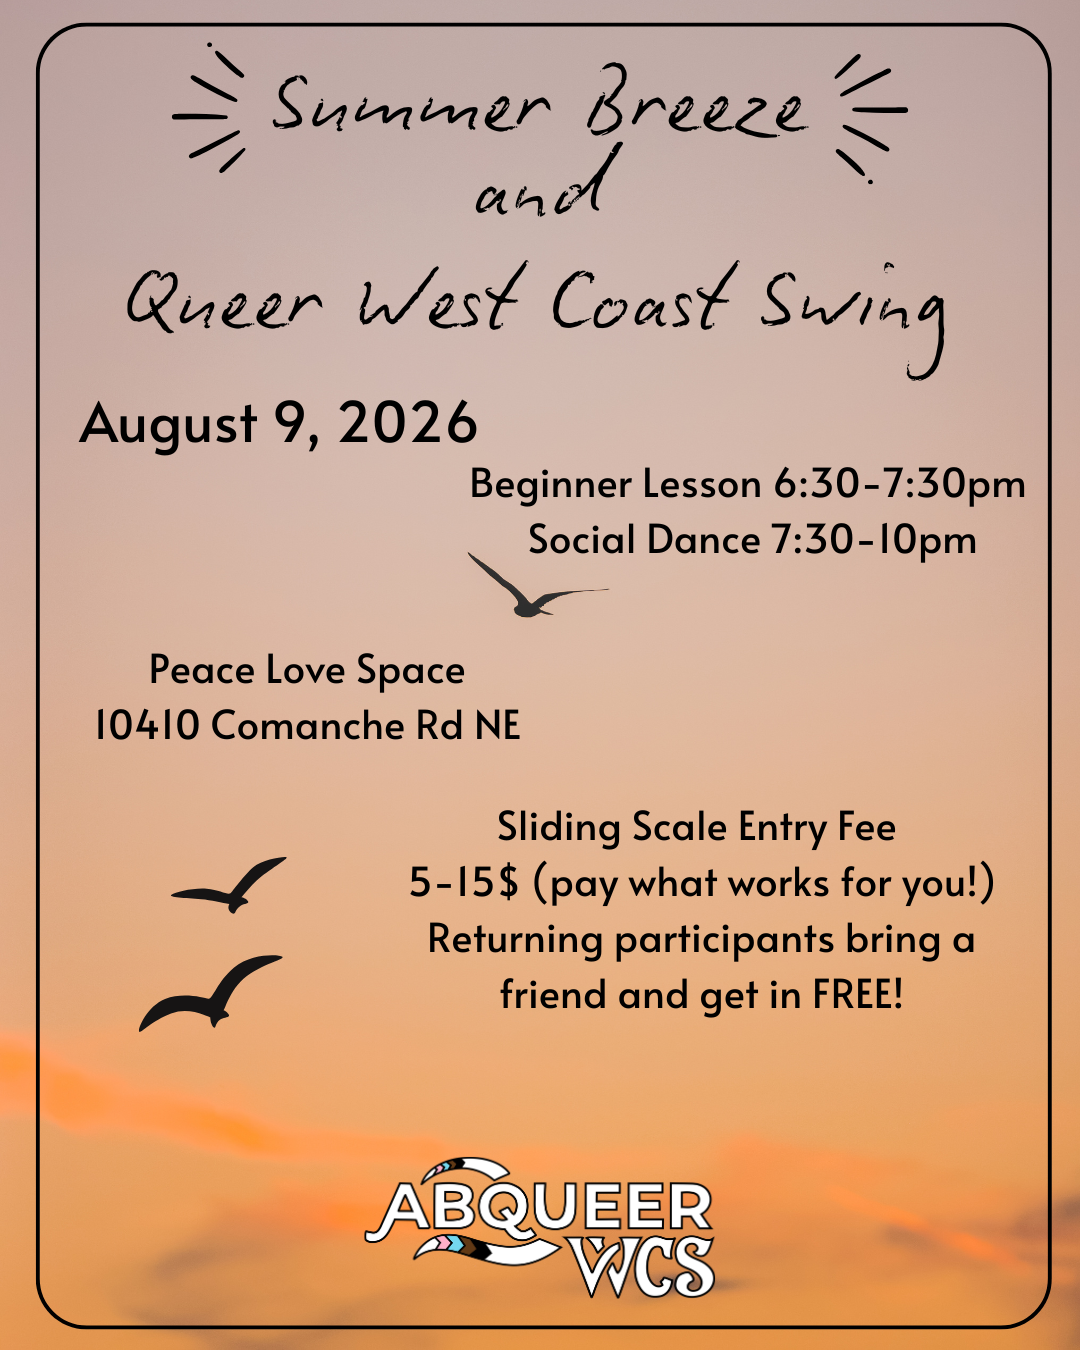
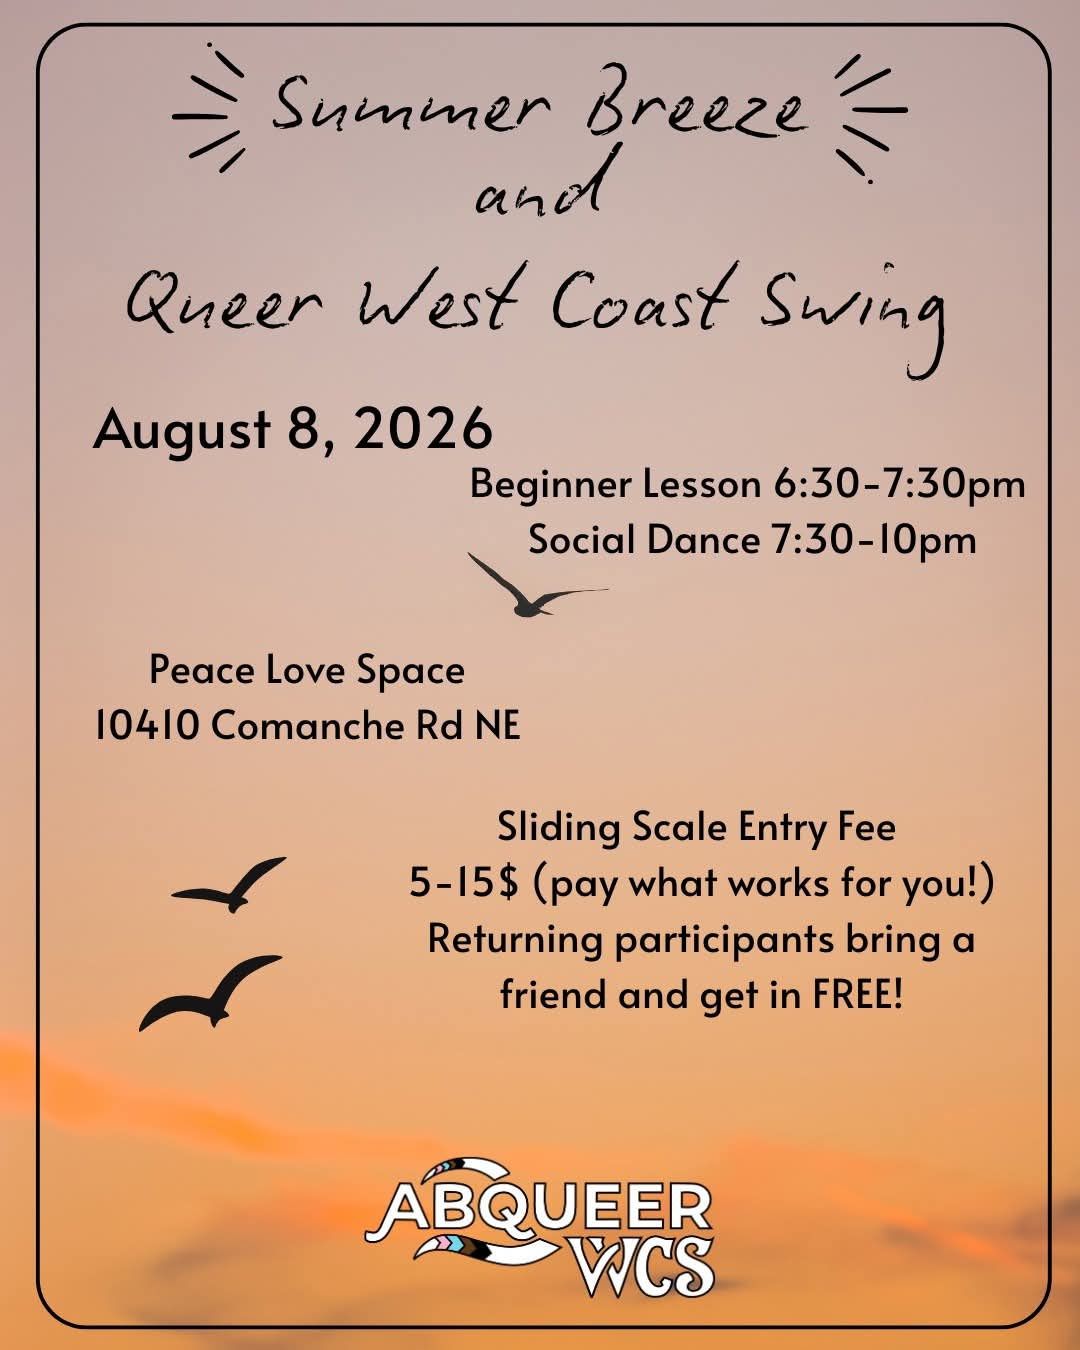
Updated august flyer to correct date

diff --git a/docs/events/index.html b/docs/events/index.html
@@ -59,43 +59,6 @@
 
   
     <img
-      src="/assets/images/events/2026-07-11.png"
-      alt="July Queer WCS Social Dance"
-      class="event-image"
-      data-full="/assets/images/events/2026-07-11.png"
-    >
-  
-
-  <div class="event-info">
-    <h2>July Queer WCS Social Dance</h2>
-
-    <p class="event-date">July 11, 2026</p>
-
-    
-      <p class="event-meta">
-        6:30 PM • Peace Love Space
-      </p>
-    
-
-    
-      <p style="white-space: pre-wrap;">A beginner lesson targeted toward folks with little to no dance experience.</p>
-    
-      <p style="white-space: pre-wrap;">A social dance with music targeted toward folks who completed the beginner lesson. The music will feature queer artists and/or queer themes.</p>
-    
-      <p style="white-space: pre-wrap;">The theme is <b>Drag</b>!</p>
-    
-  </div>
-
-  
-
-</div>
-
-    
-      
-<div class="card event-card  has-image">
-
-  
-    <img
       src="/assets/images/events/2026-08-08.png"
       alt="August Queer WCS Social Dance"
       class="event-image"

diff --git a/docs/events/past/index.html b/docs/events/past/index.html
@@ -56,6 +56,39 @@
 
   
     <img
+      src="/assets/images/events/2026-07-11.png"
+      alt="July Queer WCS Social Dance"
+      class="event-image"
+      data-full="/assets/images/events/2026-07-11.png"
+    >
+  
+
+  <div class="event-info">
+    <h2>July Queer WCS Social Dance</h2>
+
+    <p class="event-date">July 11, 2026</p>
+
+    
+
+    
+      <p style="white-space: pre-wrap;">A beginner lesson targeted toward folks with little to no dance experience.</p>
+    
+      <p style="white-space: pre-wrap;">A social dance with music targeted toward folks who completed the beginner lesson. The music will feature queer artists and/or queer themes.</p>
+    
+      <p style="white-space: pre-wrap;">The theme is <b>Drag</b>!</p>
+    
+  </div>
+
+  
+
+</div>
+
+    
+      
+<div class="card event-card  has-image">
+
+  
+    <img
       src="/assets/images/events/2026-06-27.png"
       alt="The Big June Event"
       class="event-image"